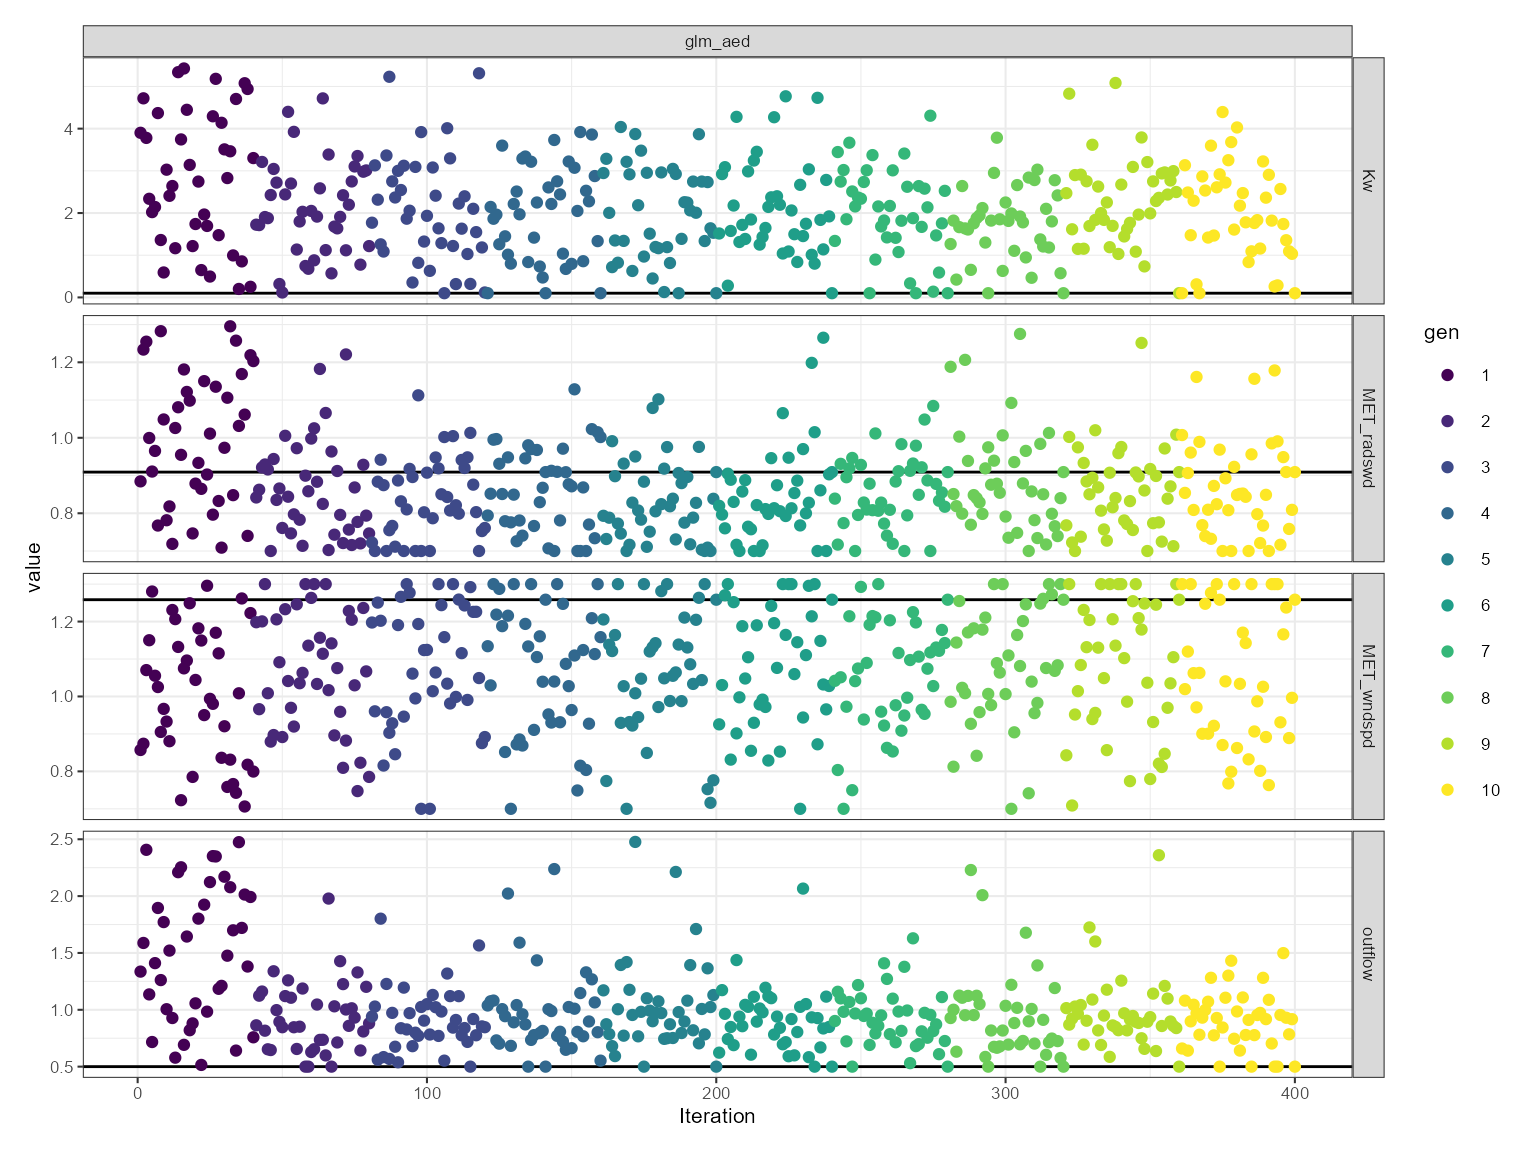
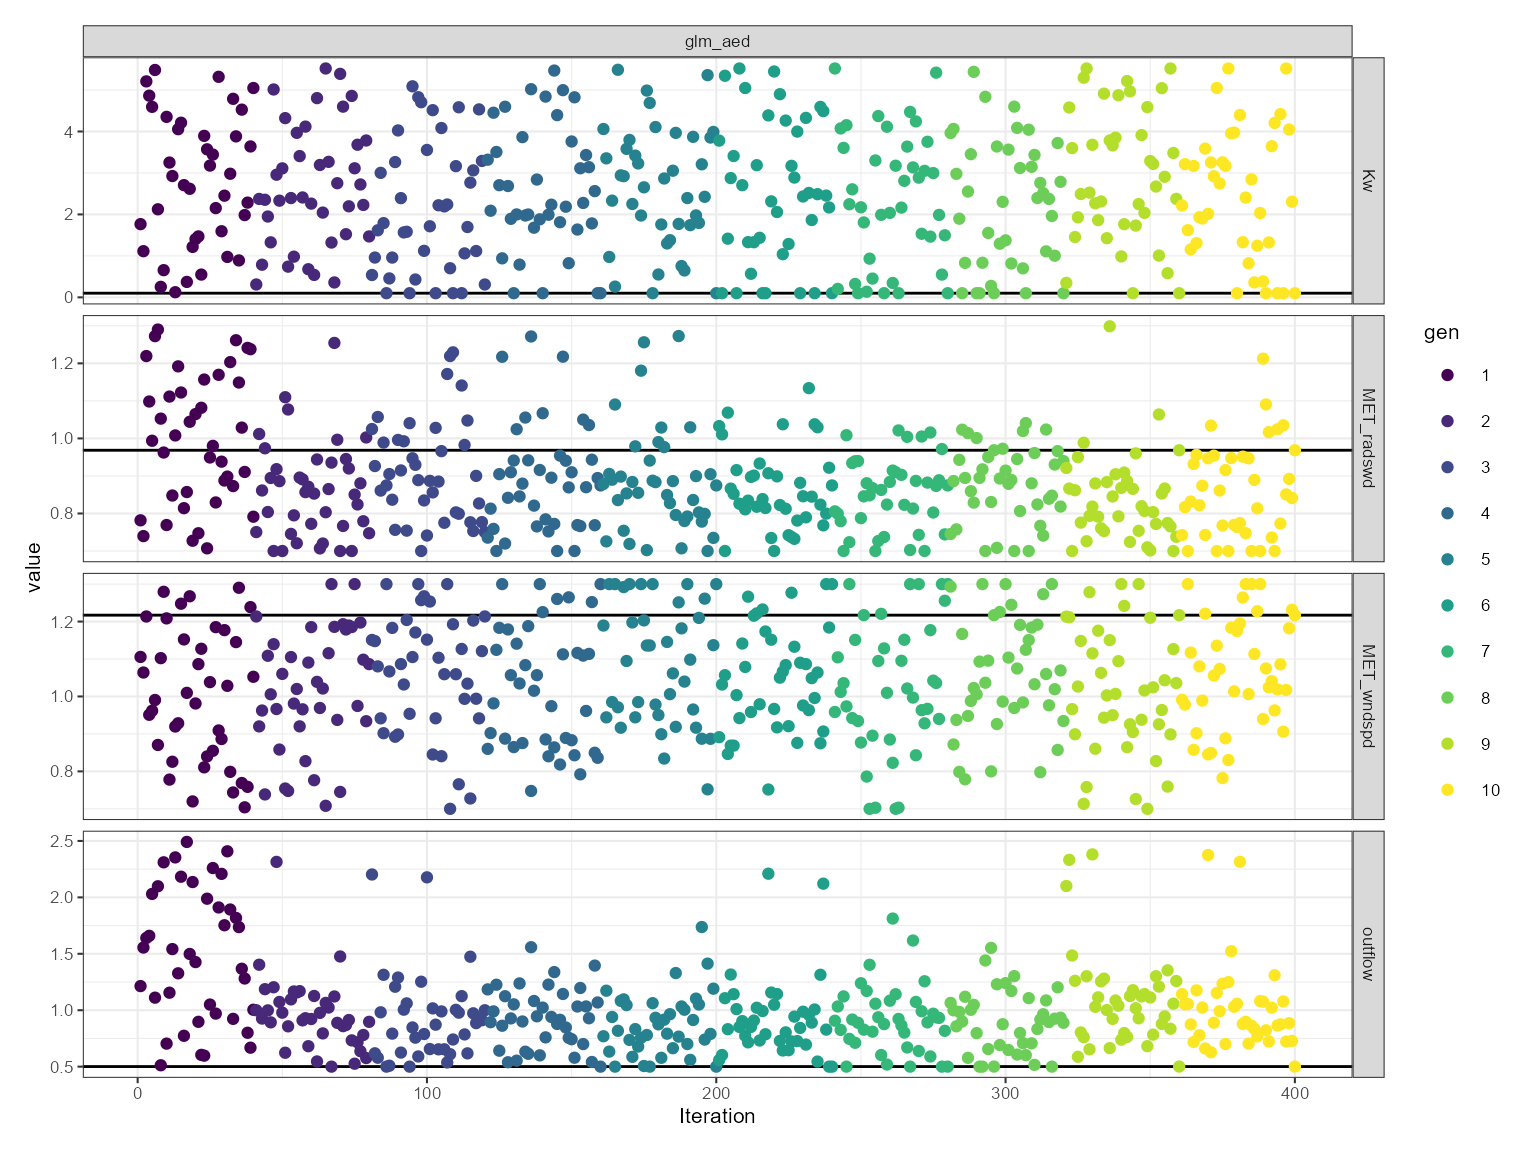
Deploying to gh-pages from @ limnotrack/aemetools@7a75f717a224fabcf76faf7101ed1b99acc4cb82 🚀

diff --git a/articles/calibrate-aeme.html b/articles/calibrate-aeme.html
@@ -121,9 +121,9 @@ make sure the current model setup is working.</p>
 <code class="sourceCode R"><span><span class="va">aeme_data</span> <span class="op">&lt;-</span> <span class="fu"><a href="https://rdrr.io/pkg/AEME/man/run_aeme.html" class="external-link">run_aeme</a></span><span class="op">(</span>aeme_data <span class="op">=</span> <span class="va">aeme_data</span>, model <span class="op">=</span> <span class="va">model</span>,</span>
 <span>                      verbose <span class="op">=</span> <span class="cn">FALSE</span>, mod_ctrls <span class="op">=</span> <span class="va">mod_ctrls</span>,</span>
 <span>                      path <span class="op">=</span> <span class="va">path</span><span class="op">)</span></span>
-<span><span class="co">#&gt; Running models... (Have you tried parallelizing?) [2023-11-09 23:27:04.471184]</span></span>
-<span><span class="co">#&gt; GLM-AED run successful! [2023-11-09 23:27:05.429121]</span></span>
-<span><span class="co">#&gt; Model run complete![2023-11-09 23:27:05.430108]</span></span>
+<span><span class="co">#&gt; Running models... (Have you tried parallelizing?) [2023-11-10 00:38:08.716046]</span></span>
+<span><span class="co">#&gt; GLM-AED run successful! [2023-11-10 00:38:09.447004]</span></span>
+<span><span class="co">#&gt; Model run complete![2023-11-10 00:38:09.447869]</span></span>
 <span><span class="co">#&gt; Retrieving and formatting temp for model glm_aed</span></span>
 <span><span class="co">#&gt; Retrieving and formatting salt for model glm_aed</span></span>
 <span><span class="fu"><a href="https://rdrr.io/r/graphics/plot.default.html" class="external-link">plot</a></span><span class="op">(</span><span class="va">aeme_data</span><span class="op">)</span></span></code></pre></div>
@@ -228,9 +228,9 @@ but the model output is generate within the lake folder.</p>
 <div class="sourceCode" id="cb7"><pre class="downlit sourceCode r">
 <code class="sourceCode R"><span><span class="fu"><a href="../reference/run_aeme_param.html">run_aeme_param</a></span><span class="op">(</span>aeme_data <span class="op">=</span> <span class="va">aeme_data</span>, param <span class="op">=</span> <span class="va">aeme_parameters</span>,</span>
 <span>                 model <span class="op">=</span> <span class="va">model</span>, path <span class="op">=</span> <span class="va">path</span>, mod_ctrls <span class="op">=</span> <span class="va">mod_ctrls</span><span class="op">)</span></span>
-<span><span class="co">#&gt; Running models... (Have you tried parallelizing?) [2023-11-09 23:27:09.828096]</span></span>
-<span><span class="co">#&gt; GLM-AED run successful! [2023-11-09 23:27:10.687894]</span></span>
-<span><span class="co">#&gt; Model run complete![2023-11-09 23:27:10.68896]</span></span></code></pre></div>
+<span><span class="co">#&gt; Running models... (Have you tried parallelizing?) [2023-11-10 00:38:21.963193]</span></span>
+<span><span class="co">#&gt; GLM-AED run successful! [2023-11-10 00:38:22.682436]</span></span>
+<span><span class="co">#&gt; Model run complete![2023-11-10 00:38:22.683314]</span></span></code></pre></div>
 </div>
 <div class="section level2">
 <h2 id="calibration-setup">Calibration setup<a class="anchor" aria-label="anchor" href="#calibration-setup"></a>
@@ -364,79 +364,79 @@ values.</p>
 <span>                   param <span class="op">=</span> <span class="va">aeme_parameters</span>, model <span class="op">=</span> <span class="va">model</span>,</span>
 <span>                   mod_ctrls <span class="op">=</span> <span class="va">mod_ctrls</span>, FUN <span class="op">=</span> <span class="va">fit</span>, ctrl <span class="op">=</span> <span class="va">ctrl</span>,</span>
 <span>                   vars_sim <span class="op">=</span> <span class="va">vars_sim</span>, weights <span class="op">=</span> <span class="va">weights</span><span class="op">)</span></span>
-<span><span class="co">#&gt; Extracting indices for modelled variables [2023-11-09 23:27:11.078854]</span></span>
-<span><span class="co">#&gt; Complete! [2023-11-09 23:27:12.146649]</span></span>
+<span><span class="co">#&gt; Extracting indices for modelled variables [2023-11-10 00:38:23.019259]</span></span>
+<span><span class="co">#&gt; Complete! [2023-11-10 00:38:23.877314]</span></span>
 <span><span class="co">#&gt; Calibrating in parallel using 1 cores...</span></span>
-<span><span class="co">#&gt; Starting generation 1/10, 40 members. [2023-11-09 23:27:12.532956]</span></span>
+<span><span class="co">#&gt; Starting generation 1/10, 40 members. [2023-11-10 00:38:24.135107]</span></span>
 <span><span class="co">#&gt;        light.Kw MET_wndspd MET_radswd outflow</span></span>
-<span><span class="co">#&gt; mean      2.807     1.0010     0.9998  1.4990</span></span>
-<span><span class="co">#&gt; median    2.787     1.0010     1.0050  1.4980</span></span>
-<span><span class="co">#&gt; sd        1.588     0.1751     0.1746  0.5832</span></span>
-<span><span class="co">#&gt; Best fit: 2.883 (sd: 323.597)</span></span>
-<span><span class="co">#&gt;             Parameters: [1.216, 0.785, 0.747, 0.881]</span></span>
+<span><span class="co">#&gt; mean      2.798     1.0010     1.0000  1.4970</span></span>
+<span><span class="co">#&gt; median    2.816     1.0000     1.0010  1.5200</span></span>
+<span><span class="co">#&gt; sd        1.594     0.1758     0.1751  0.5868</span></span>
+<span><span class="co">#&gt; Best fit: 2.985 (sd: 323.568)</span></span>
+<span><span class="co">#&gt;             Parameters: [1.469, 1.086, 0.747, 0.897]</span></span>
 <span><span class="co">#&gt; Survival rate: 1</span></span>
-<span><span class="co">#&gt; Starting generation 2/10, 40 members. [2023-11-09 23:27:56.05663]</span></span>
+<span><span class="co">#&gt; Starting generation 2/10, 40 members. [2023-11-10 00:38:59.204338]</span></span>
 <span><span class="co">#&gt;        light.Kw MET_wndspd MET_radswd outflow</span></span>
-<span><span class="co">#&gt; mean      2.107     1.0660     0.8636  0.9327</span></span>
-<span><span class="co">#&gt; median    1.972     1.0650     0.8511  0.8720</span></span>
-<span><span class="co">#&gt; sd        1.089     0.1596     0.1255  0.3012</span></span>
-<span><span class="co">#&gt; Best fit: 2.3983 (sd: 139.6)</span></span>
+<span><span class="co">#&gt; mean      2.679     1.0180     0.8607  0.9628</span></span>
+<span><span class="co">#&gt; median    2.402     1.0210     0.8591  0.9241</span></span>
+<span><span class="co">#&gt; sd        1.453     0.1615     0.1250  0.3151</span></span>
+<span><span class="co">#&gt; Best fit: 2.4013 (sd: 158.09)</span></span>
 <span><span class="co">#&gt; Survival rate: 1</span></span>
-<span><span class="co">#&gt; Starting generation 3/10, 40 members. [2023-11-09 23:28:40.729726]</span></span>
+<span><span class="co">#&gt; Starting generation 3/10, 40 members. [2023-11-10 00:39:35.275272]</span></span>
 <span><span class="co">#&gt;        light.Kw MET_wndspd MET_radswd outflow</span></span>
-<span><span class="co">#&gt; mean      2.079     1.0800     0.8379  0.9077</span></span>
-<span><span class="co">#&gt; median    1.995     1.0900     0.8265  0.8504</span></span>
-<span><span class="co">#&gt; sd        1.278     0.1693     0.1060  0.2699</span></span>
-<span><span class="co">#&gt; Best fit: 2.3294 (sd: 141.37)</span></span>
+<span><span class="co">#&gt; mean      2.141     1.0630     0.9137  0.9251</span></span>
+<span><span class="co">#&gt; median    1.752     1.0830     0.8945  0.8788</span></span>
+<span><span class="co">#&gt; sd        1.576     0.1604     0.1348  0.3828</span></span>
+<span><span class="co">#&gt; Best fit: 2.3299 (sd: 174.86)</span></span>
 <span><span class="co">#&gt; Survival rate: 1</span></span>
-<span><span class="co">#&gt; Starting generation 4/10, 40 members. [2023-11-09 23:29:25.308032]</span></span>
+<span><span class="co">#&gt; Starting generation 4/10, 40 members. [2023-11-10 00:40:11.981652]</span></span>
 <span><span class="co">#&gt;        light.Kw MET_wndspd MET_radswd outflow</span></span>
-<span><span class="co">#&gt; mean      1.972     1.0690     0.8633  0.9676</span></span>
-<span><span class="co">#&gt; median    2.097     1.1070     0.8680  0.8937</span></span>
-<span><span class="co">#&gt; sd        1.116     0.1721     0.1113  0.3593</span></span>
-<span><span class="co">#&gt; Best fit: 2.315 (sd: 187.59)</span></span>
+<span><span class="co">#&gt; mean      2.598     1.0240     0.8900  0.9277</span></span>
+<span><span class="co">#&gt; median    2.256     1.0250     0.8771  0.9281</span></span>
+<span><span class="co">#&gt; sd        1.489     0.1661     0.1432  0.2611</span></span>
+<span><span class="co">#&gt; Best fit: 2.3299 (sd: 128.9)</span></span>
 <span><span class="co">#&gt; Survival rate: 1</span></span>
-<span><span class="co">#&gt; Starting generation 5/10, 40 members. [2023-11-09 23:30:09.452885]</span></span>
+<span><span class="co">#&gt; Starting generation 5/10, 40 members. [2023-11-10 00:40:48.090894]</span></span>
 <span><span class="co">#&gt;        light.Kw MET_wndspd MET_radswd outflow</span></span>
-<span><span class="co">#&gt; mean      1.972     1.0590     0.8301  1.0270</span></span>
-<span><span class="co">#&gt; median    2.005     1.0600     0.8129  0.9726</span></span>
-<span><span class="co">#&gt; sd        1.116     0.1688     0.1052  0.3994</span></span>
-<span><span class="co">#&gt; Best fit: 2.315 (sd: 223.19)</span></span>
+<span><span class="co">#&gt; mean      2.647     1.0870     0.8846  0.8762</span></span>
+<span><span class="co">#&gt; median    2.760     1.0970     0.8768  0.8252</span></span>
+<span><span class="co">#&gt; sd        1.444     0.1598     0.1385  0.2694</span></span>
+<span><span class="co">#&gt; Best fit: 2.3299 (sd: 130.8)</span></span>
 <span><span class="co">#&gt; Survival rate: 1</span></span>
-<span><span class="co">#&gt; Starting generation 6/10, 40 members. [2023-11-09 23:30:52.762958]</span></span>
+<span><span class="co">#&gt; Starting generation 6/10, 40 members. [2023-11-10 00:41:25.230467]</span></span>
 <span><span class="co">#&gt;        light.Kw MET_wndspd MET_radswd outflow</span></span>
-<span><span class="co">#&gt; mean      2.100     1.0770     0.8486  0.9077</span></span>
-<span><span class="co">#&gt; median    1.842     1.0680     0.8207  0.9072</span></span>
-<span><span class="co">#&gt; sd        1.133     0.1644     0.1255  0.2818</span></span>
-<span><span class="co">#&gt; Best fit: 2.315 (sd: 130.87)</span></span>
+<span><span class="co">#&gt; mean      2.544     1.0440     0.8650  0.9267</span></span>
+<span><span class="co">#&gt; median    2.471     1.0500     0.8416  0.8520</span></span>
+<span><span class="co">#&gt; sd        1.724     0.1399     0.1053  0.3532</span></span>
+<span><span class="co">#&gt; Best fit: 2.3299 (sd: 151.21)</span></span>
 <span><span class="co">#&gt; Survival rate: 1</span></span>
-<span><span class="co">#&gt; Starting generation 7/10, 40 members. [2023-11-09 23:31:37.639902]</span></span>
+<span><span class="co">#&gt; Starting generation 7/10, 40 members. [2023-11-10 00:42:02.401227]</span></span>
 <span><span class="co">#&gt;        light.Kw MET_wndspd MET_radswd outflow</span></span>
-<span><span class="co">#&gt; mean      2.009     1.0560    0.85840  0.9231</span></span>
-<span><span class="co">#&gt; median    2.146     1.0740    0.85200  0.9236</span></span>
-<span><span class="co">#&gt; sd        1.052     0.1467    0.09462  0.2472</span></span>
-<span><span class="co">#&gt; Best fit: 2.315 (sd: 139.18)</span></span>
+<span><span class="co">#&gt; mean      2.339     1.0190    0.85180  0.9152</span></span>
+<span><span class="co">#&gt; median    2.208     1.0110    0.86510  0.8995</span></span>
+<span><span class="co">#&gt; sd        1.597     0.1785    0.09605  0.2920</span></span>
+<span><span class="co">#&gt; Best fit: 2.3296 (sd: 158.15)</span></span>
 <span><span class="co">#&gt; Survival rate: 1</span></span>
-<span><span class="co">#&gt; Starting generation 8/10, 40 members. [2023-11-09 23:32:22.035262]</span></span>
+<span><span class="co">#&gt; Starting generation 8/10, 40 members. [2023-11-10 00:42:39.604834]</span></span>
 <span><span class="co">#&gt;        light.Kw MET_wndspd MET_radswd outflow</span></span>
-<span><span class="co">#&gt; mean      1.724     1.0860     0.8863  0.9347</span></span>
-<span><span class="co">#&gt; median    1.807     1.0820     0.8526  0.8913</span></span>
-<span><span class="co">#&gt; sd        0.851     0.1581     0.1343  0.3759</span></span>
-<span><span class="co">#&gt; Best fit: 2.315 (sd: 194.72)</span></span>
+<span><span class="co">#&gt; mean      2.251     1.0580    0.88060  0.8963</span></span>
+<span><span class="co">#&gt; median    2.384     1.0480    0.89120  0.8973</span></span>
+<span><span class="co">#&gt; sd        1.536     0.1517    0.09928  0.2685</span></span>
+<span><span class="co">#&gt; Best fit: 2.3142 (sd: 119.23)</span></span>
 <span><span class="co">#&gt; Survival rate: 1</span></span>
-<span><span class="co">#&gt; Starting generation 9/10, 40 members. [2023-11-09 23:33:06.48697]</span></span>
+<span><span class="co">#&gt; Starting generation 9/10, 40 members. [2023-11-10 00:43:16.324238]</span></span>
 <span><span class="co">#&gt;        light.Kw MET_wndspd MET_radswd outflow</span></span>
-<span><span class="co">#&gt; mean      2.303     1.0780     0.8577  0.9732</span></span>
-<span><span class="co">#&gt; median    2.322     1.1040     0.8553  0.9004</span></span>
-<span><span class="co">#&gt; sd        1.016     0.1805     0.1130  0.3248</span></span>
-<span><span class="co">#&gt; Best fit: 2.315 (sd: 174.86)</span></span>
+<span><span class="co">#&gt; mean      2.954     1.0130     0.8406  1.0950</span></span>
+<span><span class="co">#&gt; median    2.790     1.0120     0.8189  1.0490</span></span>
+<span><span class="co">#&gt; sd        1.589     0.1677     0.1146  0.4126</span></span>
+<span><span class="co">#&gt; Best fit: 2.3142 (sd: 211.57)</span></span>
 <span><span class="co">#&gt; Survival rate: 1</span></span>
-<span><span class="co">#&gt; Starting generation 10/10, 40 members. [2023-11-09 23:33:50.726754]</span></span>
+<span><span class="co">#&gt; Starting generation 10/10, 40 members. [2023-11-10 00:43:51.909904]</span></span>
 <span><span class="co">#&gt;        light.Kw MET_wndspd MET_radswd outflow</span></span>
-<span><span class="co">#&gt; mean      1.971     1.0630     0.8669  0.9048</span></span>
-<span><span class="co">#&gt; median    1.826     1.0370     0.8501  0.9230</span></span>
-<span><span class="co">#&gt; sd        1.134     0.1833     0.1258  0.2513</span></span>
-<span><span class="co">#&gt; Best fit: 2.315 (sd: 119.24)</span></span>
+<span><span class="co">#&gt; mean      2.444      1.067     0.8611  1.0070</span></span>
+<span><span class="co">#&gt; median    2.357      1.065     0.8459  0.8931</span></span>
+<span><span class="co">#&gt; sd        1.578      0.147     0.1259  0.3749</span></span>
+<span><span class="co">#&gt; Best fit: 2.3142 (sd: 174.92)</span></span>
 <span><span class="co">#&gt; Survival rate: 1</span></span></code></pre></div>
 </div>
 <div class="section level2">

diff --git a/articles/download-era5.html b/articles/download-era5.html
@@ -94,8 +94,8 @@ your computer to speed up the download.</p>
 <span><span class="va">met</span> <span class="op">&lt;-</span> <span class="fu"><a href="../reference/get_era5_point.html">get_era5_point</a></span><span class="op">(</span>lat <span class="op">=</span> <span class="va">lat</span>, lon <span class="op">=</span> <span class="va">lon</span>, years <span class="op">=</span> <span class="fl">2000</span><span class="op">:</span><span class="fl">2001</span>,</span>
 <span>                      variables <span class="op">=</span> <span class="va">variables</span>, format <span class="op">=</span> <span class="st">"aeme"</span>, parallel <span class="op">=</span> <span class="cn">TRUE</span><span class="op">)</span></span>
 <span><span class="co">#&gt; Auto-refreshing stale OAuth token.</span></span>
-<span><span class="co">#&gt; Downloading ERA5 variables in parallel... [2023-11-09 23:34:52.17555]</span></span>
-<span><span class="co">#&gt; Finished downloading ERA5 variables! [2023-11-09 23:35:05.348229]</span></span>
+<span><span class="co">#&gt; Downloading ERA5 variables in parallel... [2023-11-10 00:44:40.146548]</span></span>
+<span><span class="co">#&gt; Finished downloading ERA5 variables! [2023-11-10 00:44:55.097587]</span></span>
 <span><span class="fu"><a href="https://rdrr.io/r/base/summary.html" class="external-link">summary</a></span><span class="op">(</span><span class="va">met</span><span class="op">)</span></span>
 <span><span class="co">#&gt;       Date              MET_tmpair       MET_pprain     </span></span>
 <span><span class="co">#&gt;  Min.   :2000-01-01   Min.   : 3.407   Min.   : 0.0000  </span></span>
